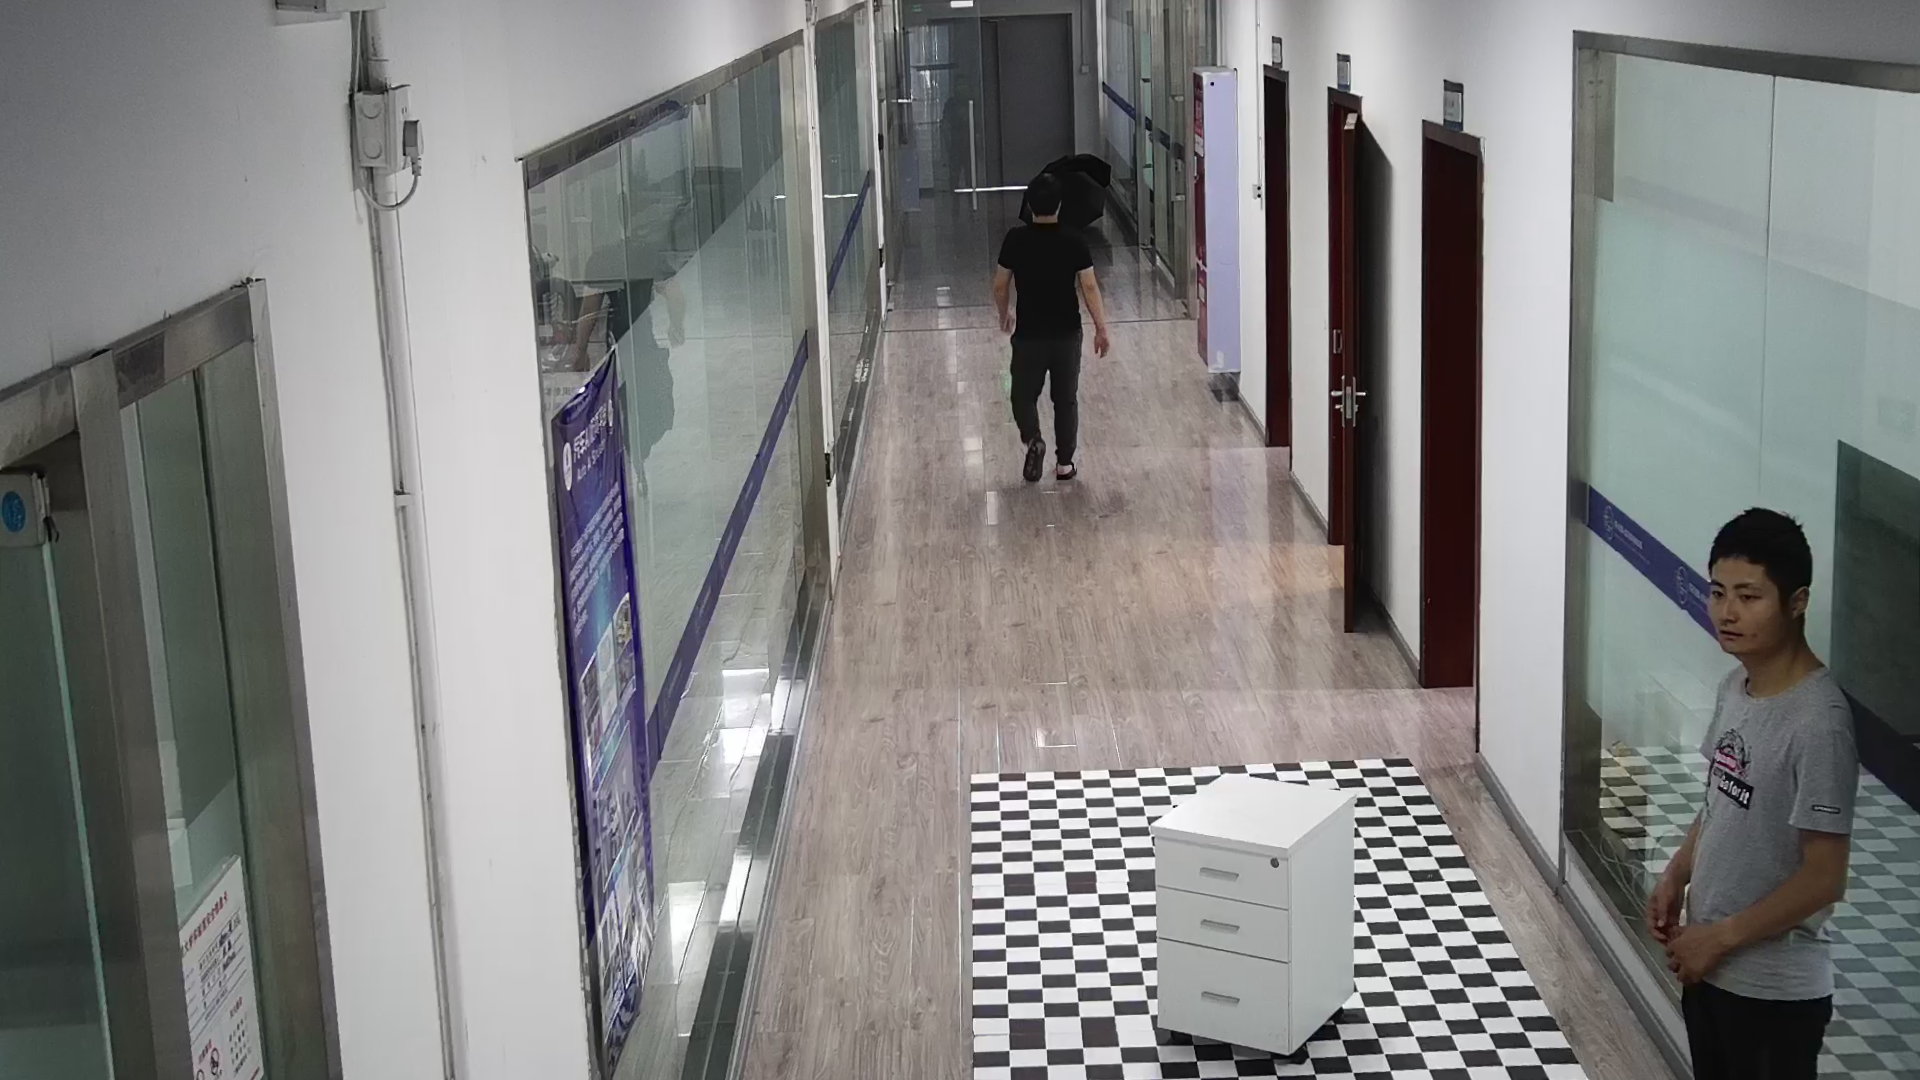
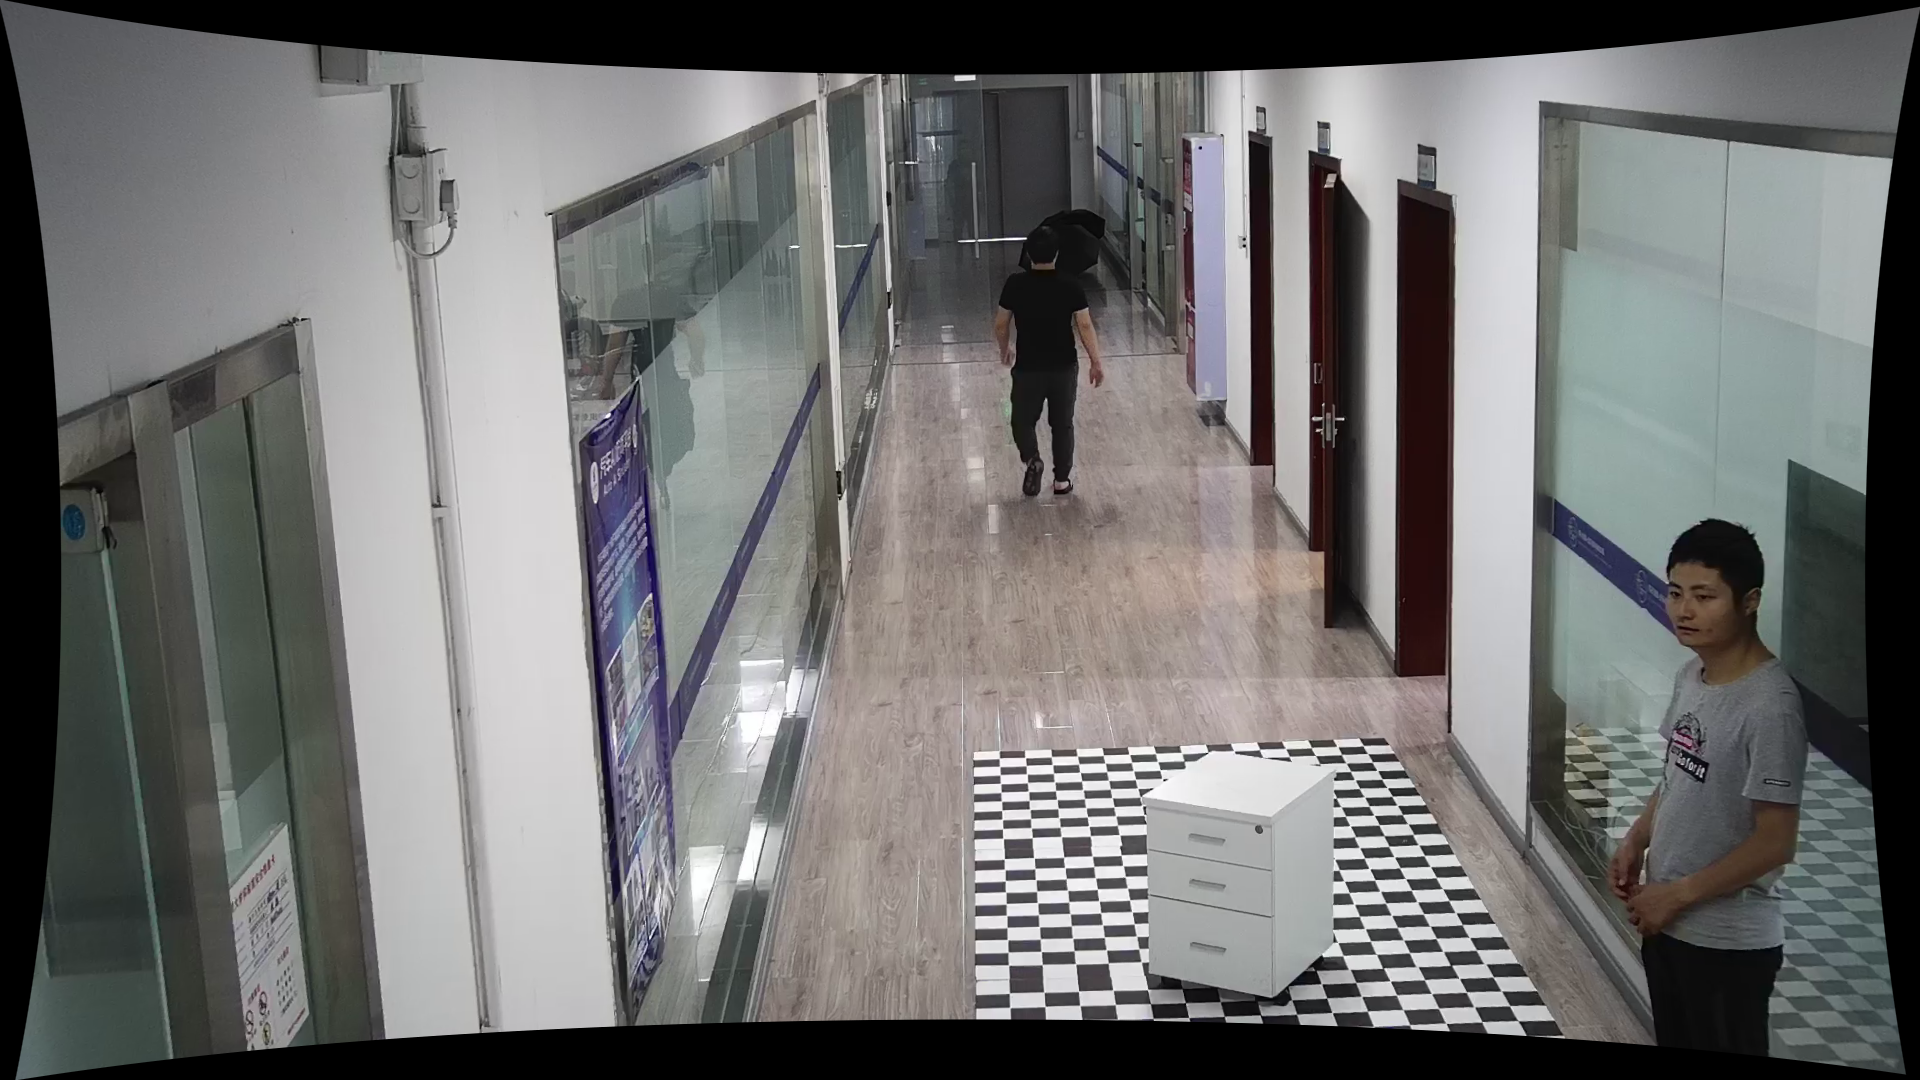
retain black edegs when we undistort images

diff --git a/common/opencv.py b/common/opencv.py
@@ -155,17 +155,18 @@ class cameraUnistort():
     """
     畸变图片矫正
     """
-    def __init__(self, mtx, dist, image_size):
+    def __init__(self, mtx, dist, image_size, black_roi=1):
         """
         描述: 初始化，获取矫正畸变的重映射矩阵
         参数：mtx：内参矩阵，narray, shape(3,3)
              dist：畸变系数矩阵，narray, shape(1,5), [k1, k2, p1, p2, k3]
              image_size: 图像长和宽，注意应该是(image.shape[1], image.shape[0])
+             blackRoi: 矫正后是否保留黑边1完全保留，0完全不保留
         返回：None
         """
         ## 计算新相机矩阵和没有黑边的区域roi
         newcameramtx, roi = cv.getOptimalNewCameraMatrix( \
-            mtx, dist, image_size, 0, image_size)
+            mtx, dist, image_size, black_roi, image_size)
 
         ## 得到新的映射矩阵，mapx, mapy, narray, shape(m,n)
         self.mapx, self.mapy = \
